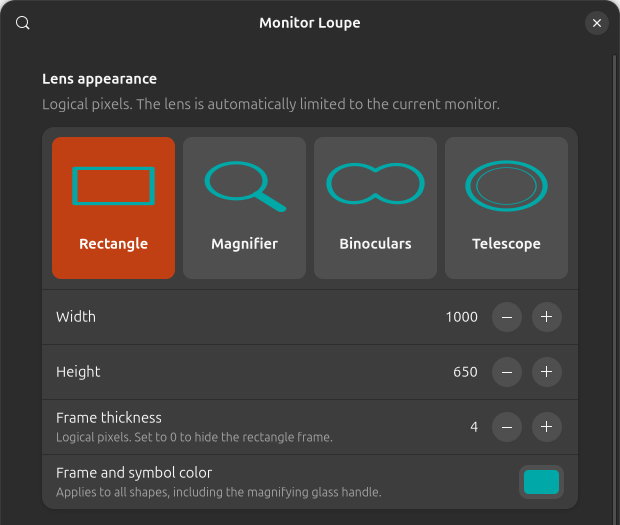
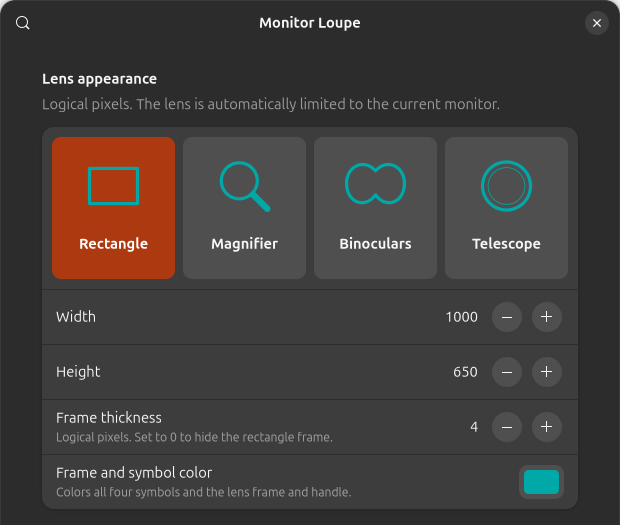
Keep round lens setting symbols circular

diff --git a/prefs.js b/prefs.js
@@ -200,7 +200,9 @@ export default class MonitorLoupePreferences extends ExtensionPreferences {
         const rgba = new Gdk.RGBA();
         rgba.parse(frameColor(settings.get_string('frame-color')));
         cr.save();
-        cr.scale(width / 160, height / 160);
+        const size = Math.min(width, height);
+        cr.translate((width - size) / 2, (height - size) / 2);
+        cr.scale(size / 160, size / 160);
         cr.setSourceRGBA(rgba.red, rgba.green, rgba.blue, 1);
         cr.setLineWidth(8);
         cr.setLineCap(Cairo.LineCap.ROUND);
